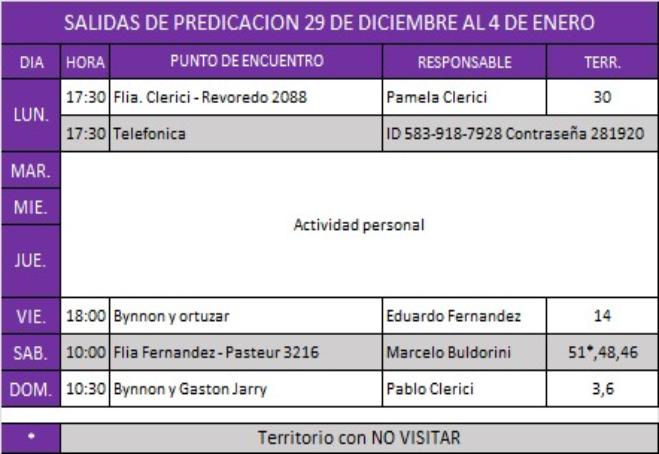
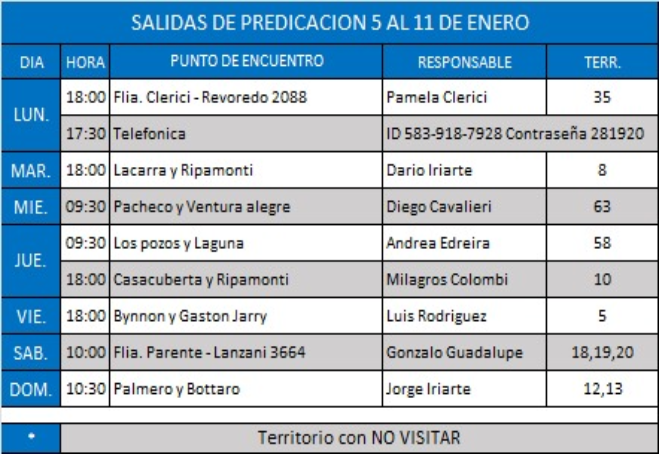
actualizo salida, limpieza y programa

diff --git a/pages/programaSemanal/programaSemanal.html b/pages/programaSemanal/programaSemanal.html
@@ -39,7 +39,8 @@
     <main>
         <section class="reuSemanal">
             <h2> Programa para la reunión entre semana</h2>
-            <img src="./asignacionesDiciembre.png" alt="">
+            <img src="./asignacionesEnero1.png" alt="">
+            <img src="./asignacionesEnero2.png" alt="">
         </section>
     </main>
     <footer>
